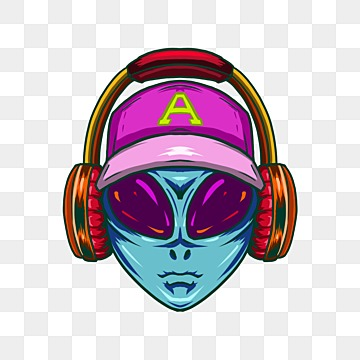
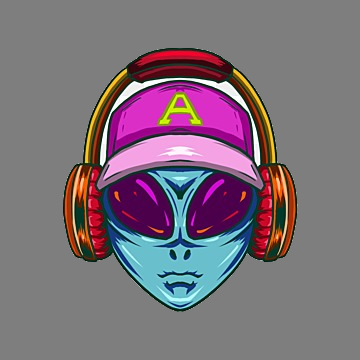
Change background of images in #trending

diff --git a/index.html b/index.html
@@ -144,7 +144,7 @@
                 src="./reddog.png"
                 alt="red dog"
                 class="round-image"
-                width="50"
+                width="40"
               />
               <h3>@tegan</h3>
               <div>Worl Peace Builder</div>
@@ -154,7 +154,7 @@
                 src="./morgan-oakley2.jpg"
                 alt="morgan"
                 class="round-image"
-                width="50"
+                width="40"
               />
               <h3>@morgan</h3>
               <div>Super Cool Project</div>
@@ -164,7 +164,7 @@
                 src="./alienwithheadphones.png"
                 alt="alien with headphones"
                 class="round-image"
-                width="50"
+                width="40"
               />
               <h3>@kendall</h3>
               <div>Life Changing App</div>
@@ -174,7 +174,7 @@
                 src="./pokemon.png"
                 alt="pokemon"
                 class="round-image"
-                width="50"
+                width="40"
               />
               <h3>@alex</h3>
               <div>No Trafic Maker</div>

diff --git a/styles.css b/styles.css
@@ -145,6 +145,7 @@
 
 .user img {
   grid-area: 1 / 1 / 3 / 2;
+  align-self: center;
 }
 
 .user h3 {
